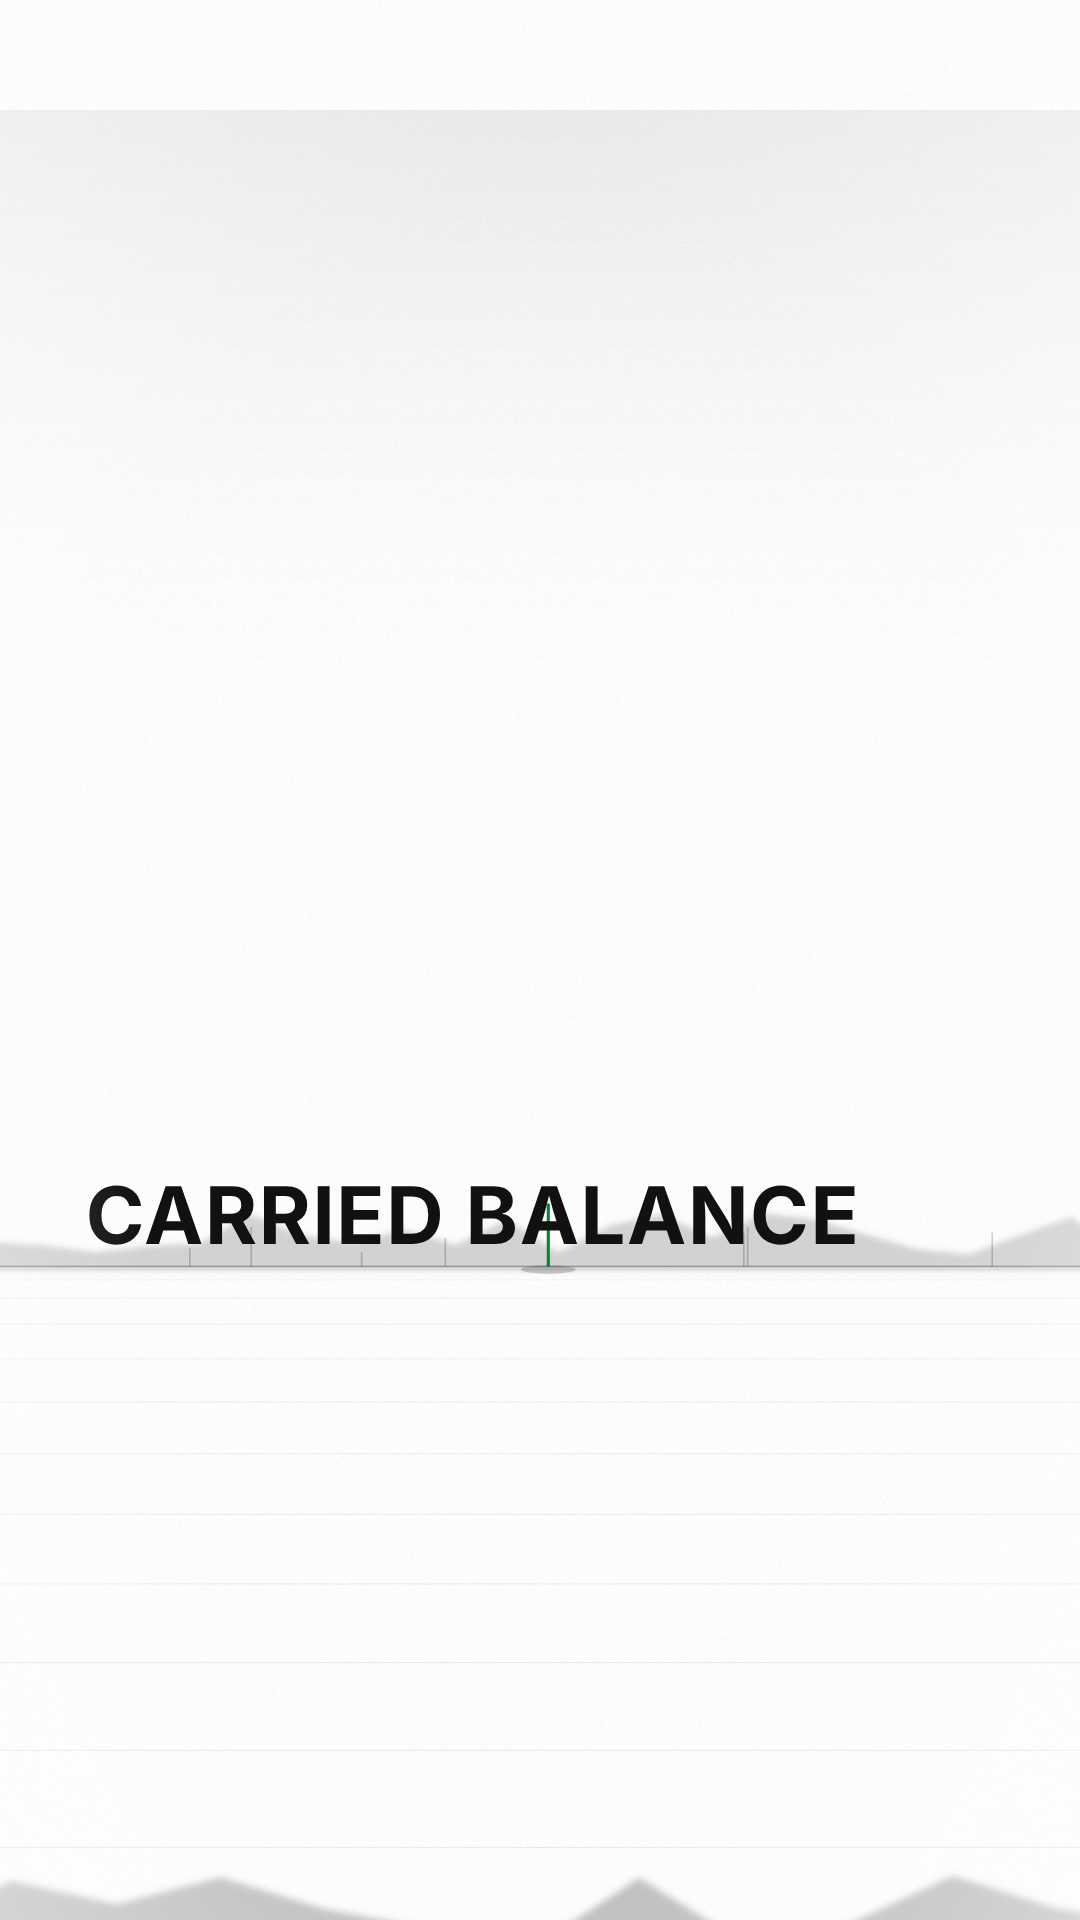
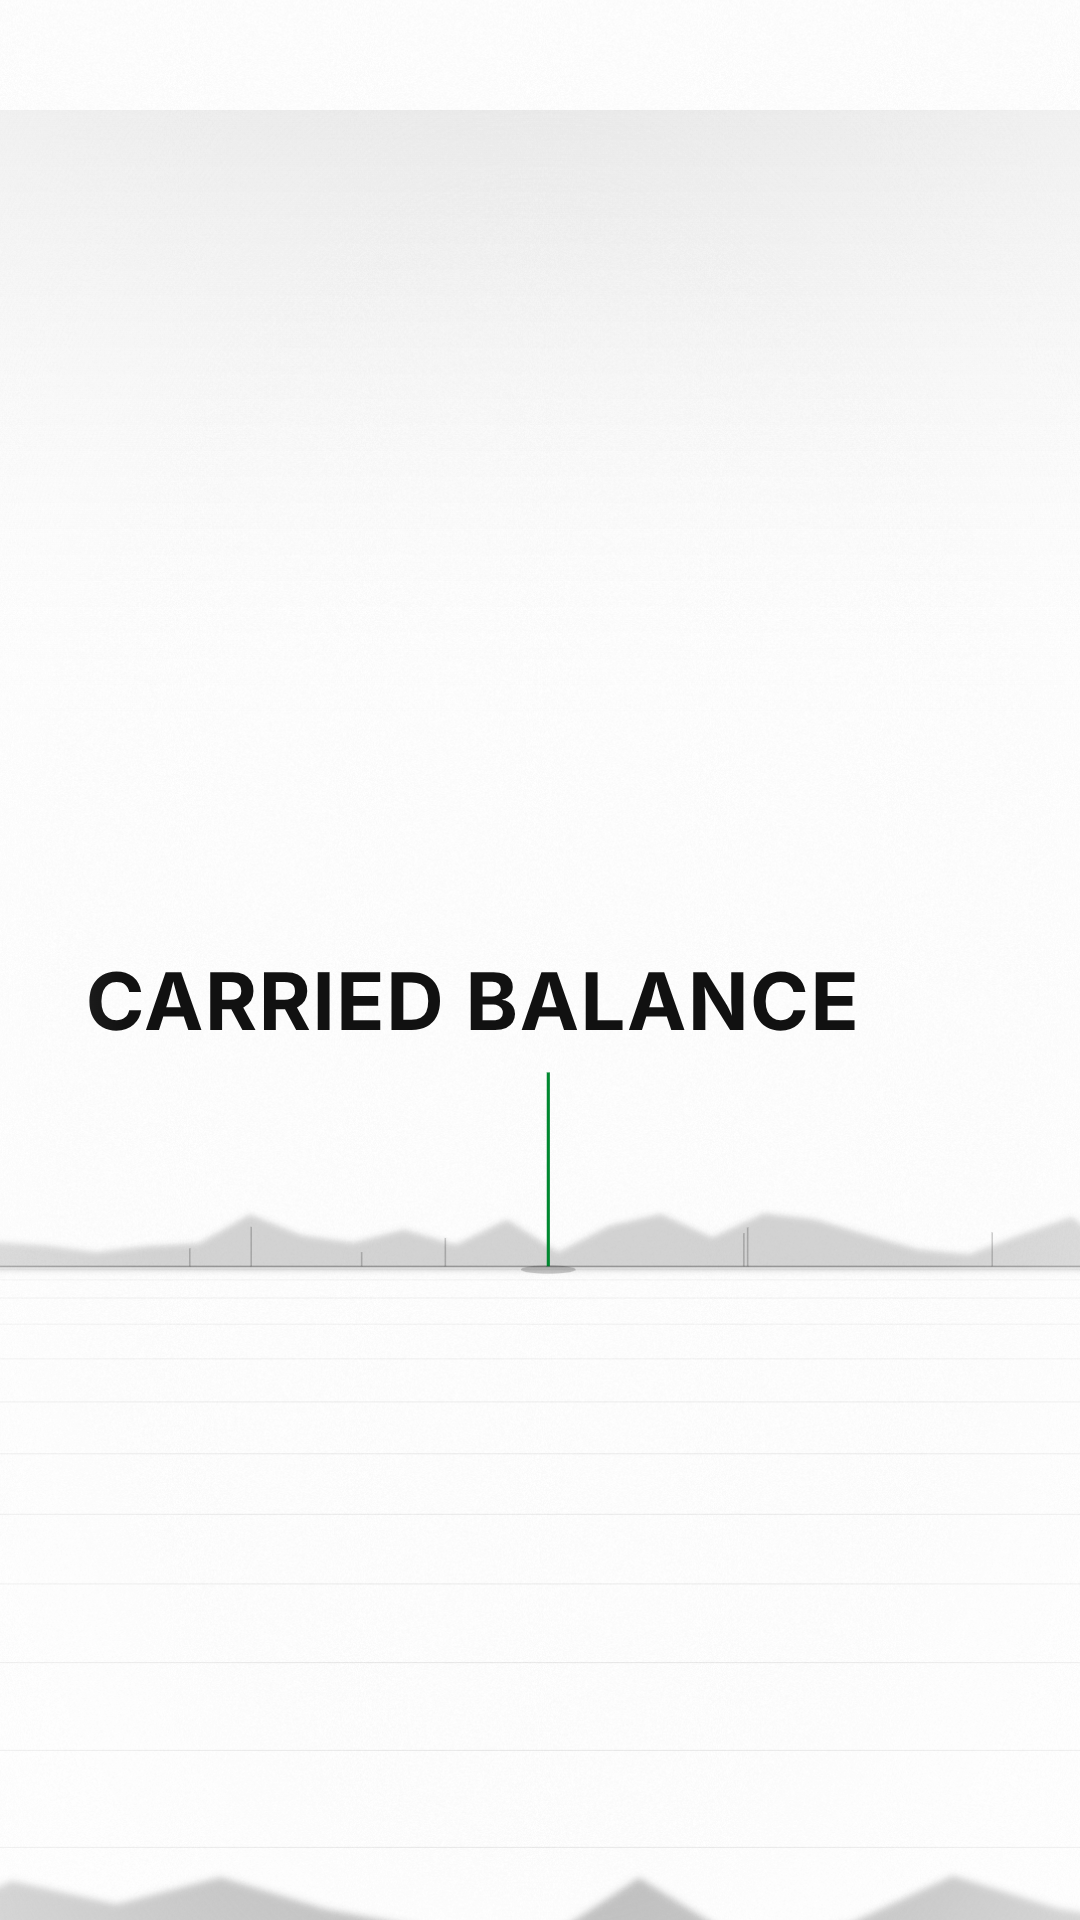
Stack the statement scene cleanly instead of overlapping its own stake
A rendered frame showed "CARRIED BALANCE" struck through by the stake meant
to be holding it up, and sitting across the horizon line. The stake's height
was derived from the text's top edge, so the two were computed against each
other and met in the middle.

Stacked downward from the horizon instead: ground, stake standing on it with
its shadow, words above the stake. The text is positioned by its BOTTOM
edge so a phrase that wraps to two lines grows upward into empty sky rather
than down through the stake.

Anchor frame: 1.8% -> 1.7% ink but bbox 100x38% -> 100x49%, and the
collision is gone.

Claude-Session: https://claude.ai/code/session_017RAYR8xby89nirHoTFi7am

Changed region(s): [[0.0611, 0.5625, 0.7944, 0.6562], [0.0611, 0.5, 0.5806, 0.5625], [0.5806, 0.5, 0.7944, 0.5625]]

diff --git a/src/skills/remotion-render/compositions/scenes/abstract-scenes.jsx b/src/skills/remotion-render/compositions/scenes/abstract-scenes.jsx
@@ -192,8 +192,17 @@ export function CinematicStatementScene({ beat, colors, fontFamily }) {
   // sets it low and near the ground; ISOLATED lifts it into the haze and
   // pushes it left, which is what "isolated" should look like.
   const textCx = f.cx;
-  const textY = Math.min(f.cy, horizon - 90);
-  const stakeH = Math.max(60, horizon - textY - 40);
+  // A CLEAN VERTICAL STACK: ground, then the stake standing on it, then the
+  // words above the stake. The first version derived the stake's height
+  // from the text's top edge, and on a rendered frame the two overlapped —
+  // "CARRIED BALANCE" was struck through by its own stake and sat across
+  // the horizon line. Stack downward from the horizon instead, and let the
+  // text sit on top of the stake rather than around it.
+  const stakeH = Math.max(90, f.h * 0.2);
+  const stakeTop = horizon - stakeH;
+  // Positioned by its BOTTOM edge, so a phrase that wraps to two lines
+  // grows upward into empty sky instead of down through the stake.
+  const textBottom = CANVAS_H - (stakeTop - 26);
 
   // A far ridge: deterministic, irregular, and BELOW the eye — it sits on
   // the horizon rather than floating. Seeded, so a re-render is identical.
@@ -243,7 +252,7 @@ export function CinematicStatementScene({ beat, colors, fontFamily }) {
             position: "absolute",
             left: Math.max(SAFE.left, textCx - f.w * 0.44),
             width: Math.min(f.w * 0.88, SAFE.right - SAFE.left),
-            top: textY,
+            bottom: textBottom,
             textAlign: shot && shot.anchorX < 0.45 ? "left" : "center",
             opacity: eSubject,
             transform: `translateY(${(1 - eSubject) * 20 - settle * 6}px)`,
